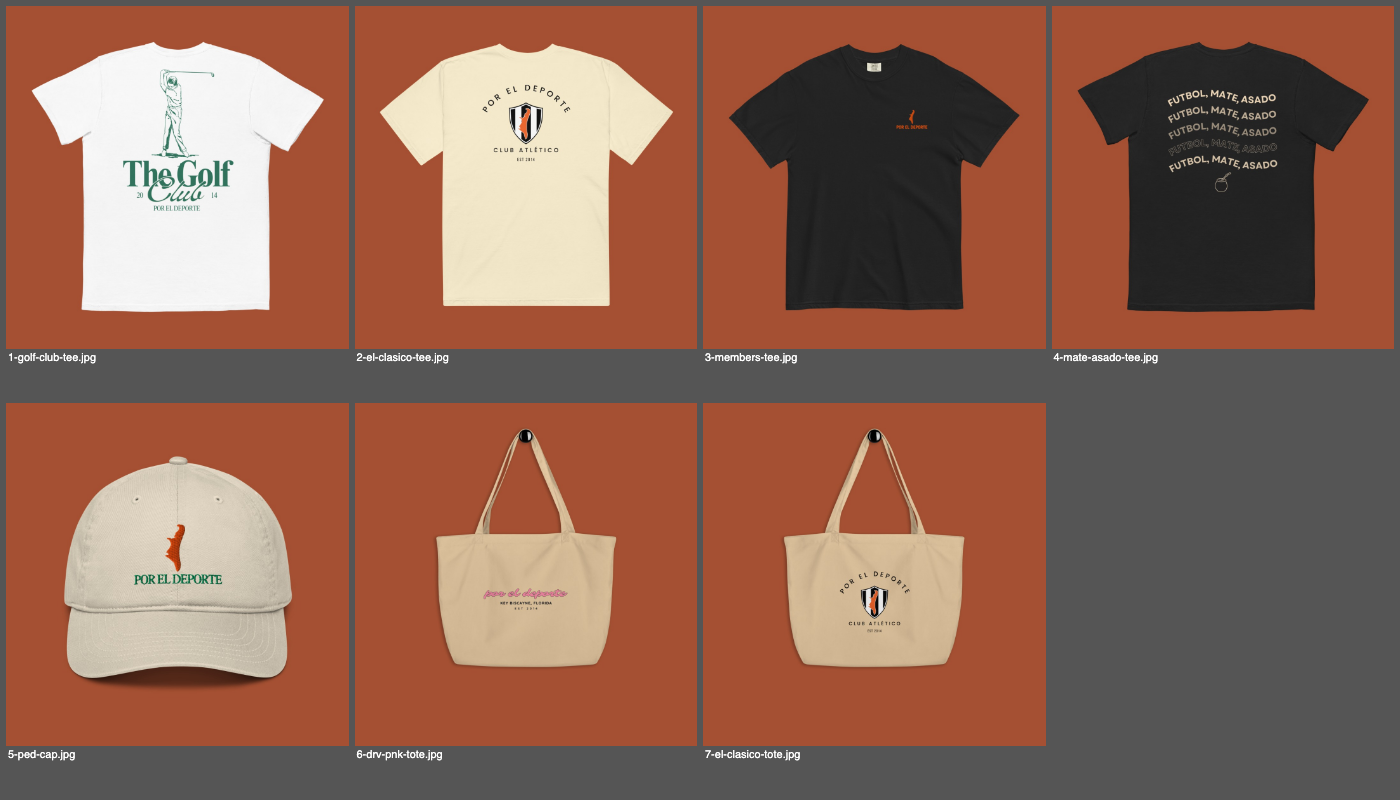
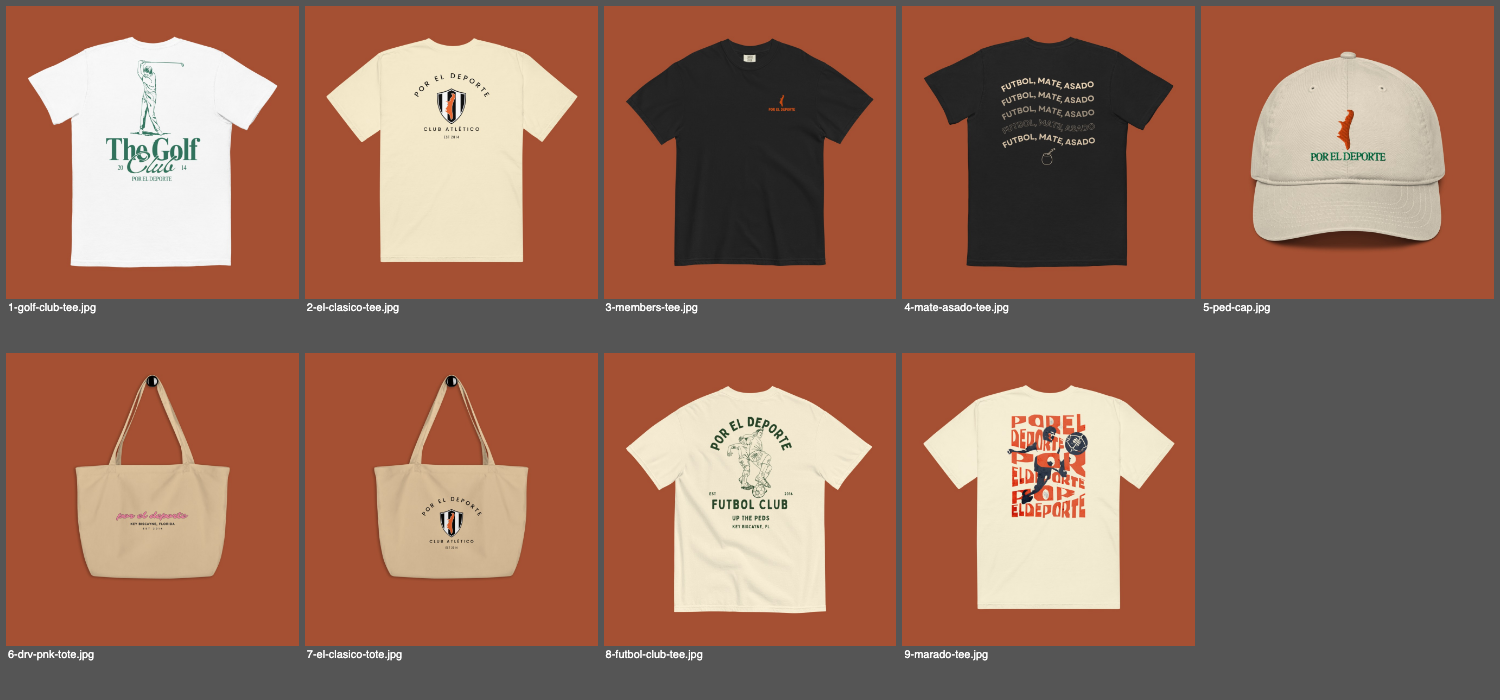
docs: add Futbol Club and Marado tees to the carousel
Franco asked for both. Nine cards now: six tees, the cap, two totes.

The Futbol Club Tee has receipts ($376 across 16 orders, the most-ordered
tee in the store) and was only cut earlier to make room for the Members Tee.
Marado is new and unsold, so the carousel now carries two unproven cards
rather than one. That is acceptable here because "show best performing cards
first" is on, so Meta demotes whichever fails to earn attention instead of
holding a fixed order.

Both images built on brand orange like the rest. Both are ivory garments and
read clearly against it, which cream would not have managed.

All nine destinations verified 200 against production.

diff --git a/docs/ads/meta-launch-campaign.md b/docs/ads/meta-launch-campaign.md
@@ -69,7 +69,7 @@ Attribution: 7-day click, 1-day view.
 
 ## The carousel
 
-Seven cards: four tees, the cap, two totes. Picked on two years of sales
+Nine cards: six tees, the cap, two totes. Picked on two years of sales
 rather than on how they look in the grid, with one deliberate exception noted
 below.
 
@@ -86,6 +86,8 @@ they are the cheapest way in, not because they are expected to carry the ad.
 | 5 | Por El Deporte Cap | $35 | $306, 12 orders | `/products/por-el-deporte-cap` |
 | 6 | DRV PNK Tote | $35 | $45, 5 orders | `/products/the-tote` |
 | 7 | El Clásico Tote | $35 | $35, 2 orders | `/products/el-clasico-tote` |
+| 8 | The Futbol Club Tee | $45 | $376, 16 orders | `/products/key-biscayne-shield-tee` |
+| 9 | Marado Tee | $40 | new, no sales yet | `/products/marado-tee` |
 
 Three things worth knowing about this list.
 
@@ -96,8 +98,11 @@ a place, but it is the only card here running on conviction rather than
 receipts. Watch it specifically: if it takes clicks and does not convert while
 cards 1 and 2 do, that is the store telling you something useful for free.
 
-**Marado Tee stays out.** Also new, also unsold, and one unproven card in a
-carousel is a test while two is a guess.
+**Marado Tee is card 9**, added at Franco's request. Also new and unsold, so
+the carousel now carries two unproven cards. That is a deliberate choice rather
+than an oversight: with "show best performing cards first" on, Meta demotes
+whichever of them fails to earn attention, so the cost of being wrong is
+smaller than it would be in a fixed running order.
 
 **Totes are the weakest category in the store**, $80 and seven orders across
 two years combined. They are in because a $35 entry point is worth having in
@@ -115,6 +120,8 @@ https://poreldeporte.com/products/futbol-mate-asado-tee?utm_source=facebook&utm_
 https://poreldeporte.com/products/por-el-deporte-cap?utm_source=facebook&utm_medium=paid_social&utm_campaign=launch_carousel&utm_content=cap
 https://poreldeporte.com/products/the-tote?utm_source=facebook&utm_medium=paid_social&utm_campaign=launch_carousel&utm_content=drv_pnk_tote
 https://poreldeporte.com/products/el-clasico-tote?utm_source=facebook&utm_medium=paid_social&utm_campaign=launch_carousel&utm_content=el_clasico_tote
+https://poreldeporte.com/products/key-biscayne-shield-tee?utm_source=facebook&utm_medium=paid_social&utm_campaign=launch_carousel&utm_content=futbol_club_tee
+https://poreldeporte.com/products/marado-tee?utm_source=facebook&utm_medium=paid_social&utm_campaign=launch_carousel&utm_content=marado_tee
 ```
 
 Turn on **"Automatically show the best performing cards first"**. The order
@@ -127,7 +134,7 @@ Built and ready to upload, in `docs/ads/carousel/`, numbered in card order:
 ```
 1-golf-club-tee.jpg    2-el-clasico-tee.jpg   3-members-tee.jpg
 4-mate-asado-tee.jpg   5-ped-cap.jpg          6-drv-pnk-tote.jpg
-7-el-clasico-tote.jpg
+7-el-clasico-tote.jpg  8-futbol-club-tee.jpg  9-marado-tee.jpg
 ```
 
 1080x1080 JPEG, which is what Meta wants for a 1:1 carousel. `contact-sheet.png`
@@ -171,6 +178,8 @@ to fit without truncation.
 | 5 | Shade for the sideline | PED Cap, $35 |
 | 6 | Holds a full kit | DRV PNK Tote, $35 |
 | 7 | Market run and match day | El Clásico Tote, $35 |
+| 8 | The club on your chest | Futbol Club Tee, $45 |
+| 9 | Built to outlast the season | Marado Tee, $40 |
 
 Call to action: **Shop now** on every card.
 
